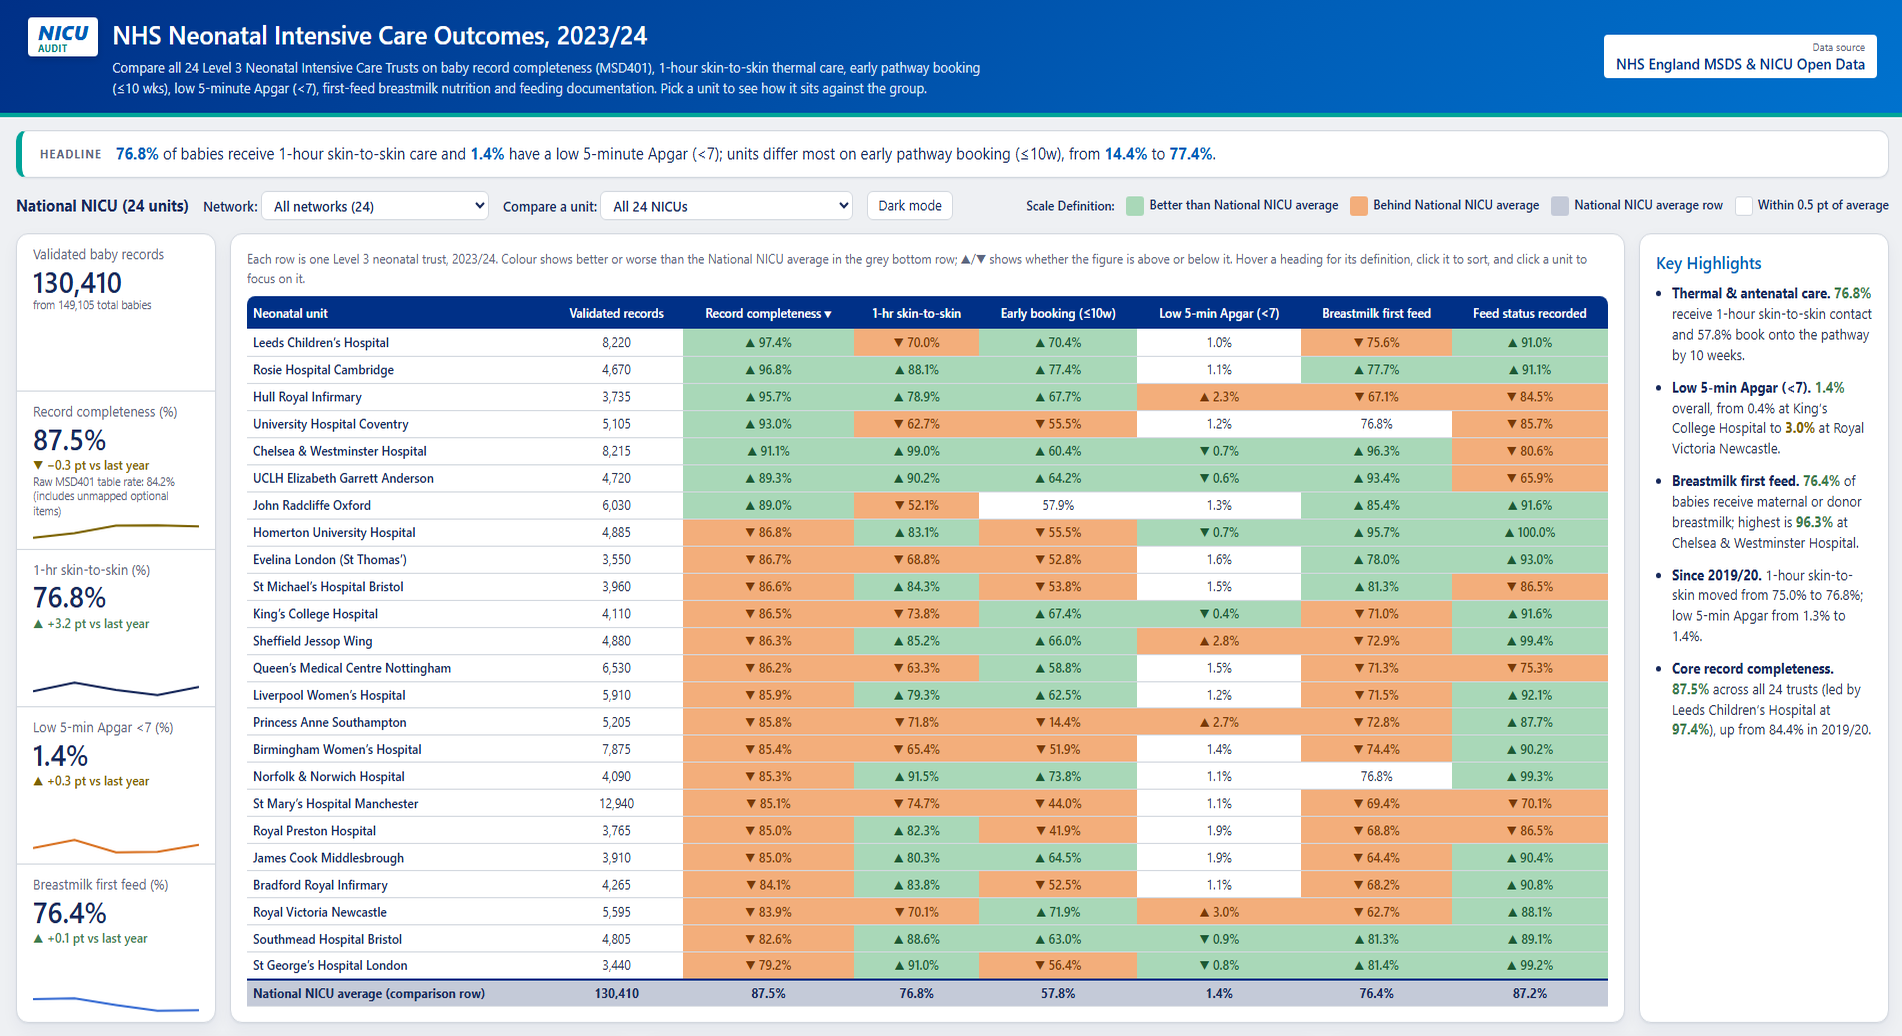
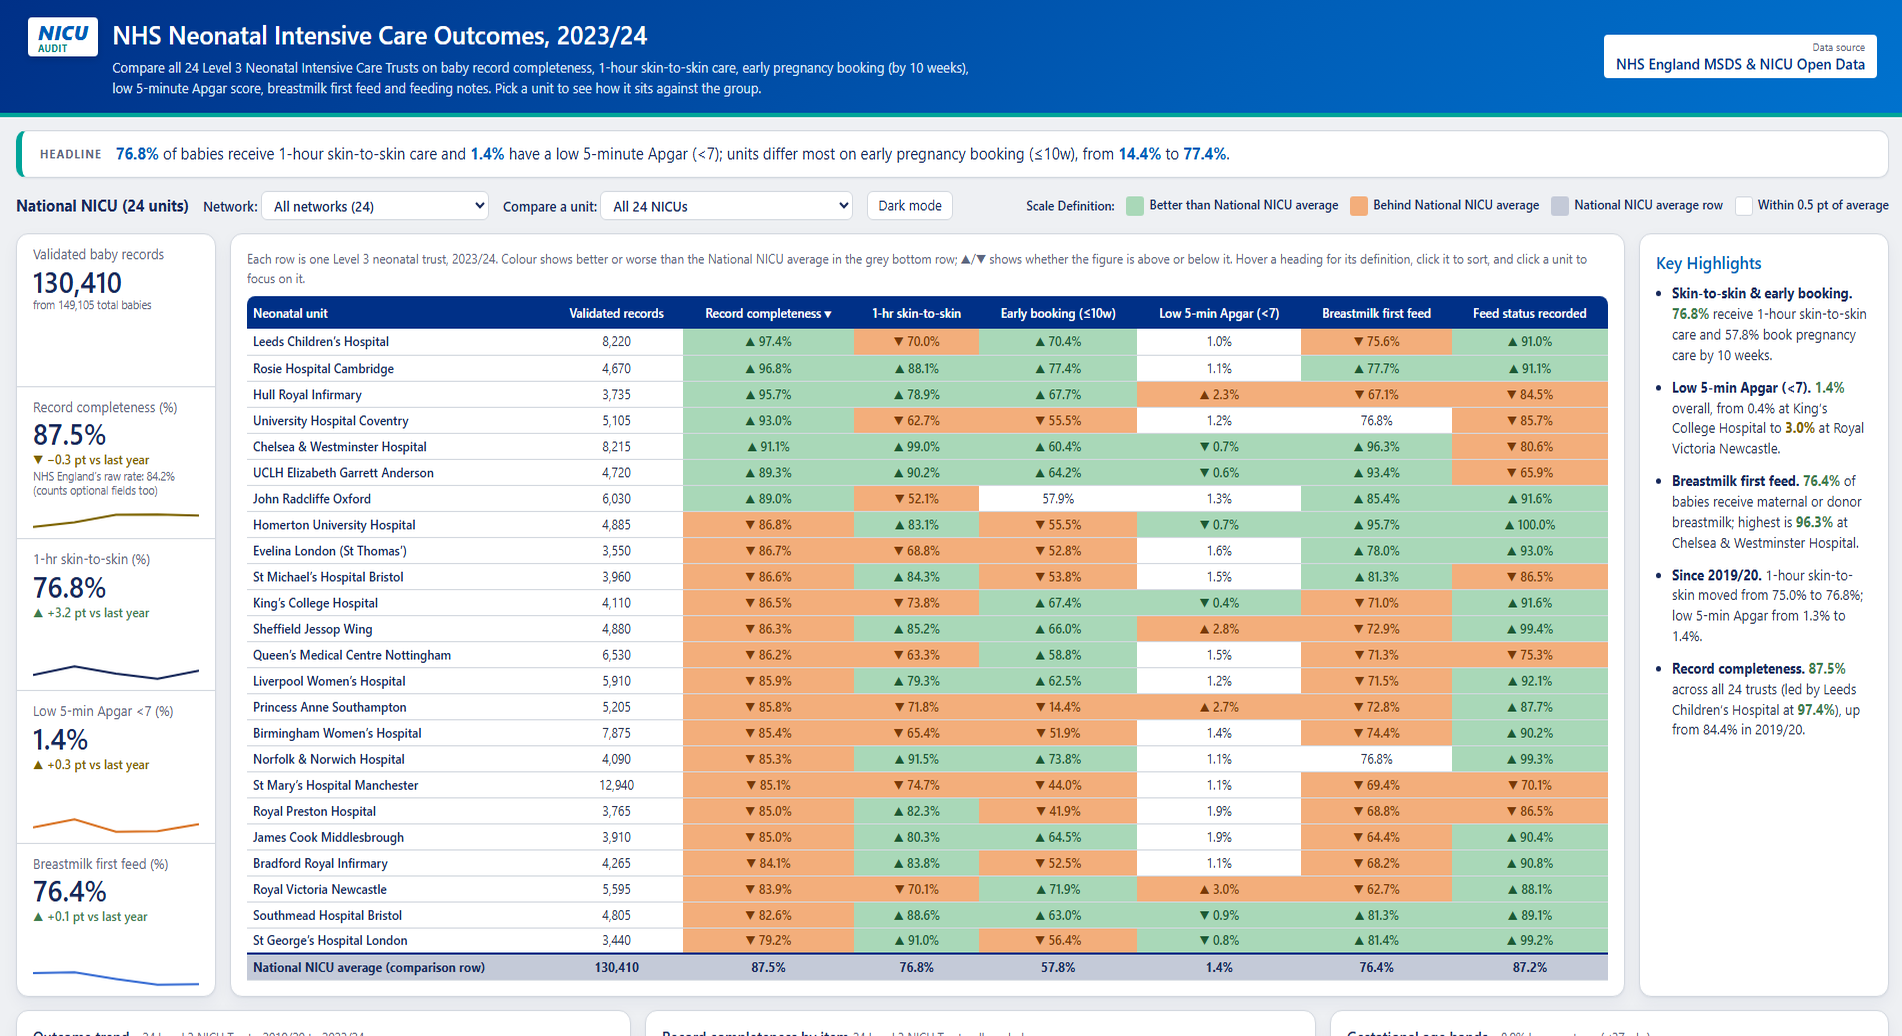
Update NHS cover image with plain-English dashboard wording

diff --git a/script.js b/script.js
@@ -26,7 +26,7 @@
             title: "NHS Neonatal Intensive Care Outcomes 2023/24: Clinical Audit & MSDS Data Quality",
             question: "How do England's 24 Level 3 Neonatal Intensive Care Trusts compare on baby record completeness (MSD401) and perinatal care?",
             embedUrl: "https://subramanian-ms.github.io/nhs-neonatal-outcomes-dashboard/",
-            coverImg: "images/NHS_Neonatal_cover_clean.png?v=20261031h",
+            coverImg: "images/NHS_Neonatal_cover_clean.png?v=20261031i",
             coverAlt: "NHS Neonatal Intensive Care Outcomes 2023/24 Dashboard",
             tags: ["Python (pandas)", "NHS England open data", "NHS disclosure control", "MSDS data quality", "22 automated checks"],
             summary: "An interactive clinical and data-quality dashboard comparing all 24 English Level 3 Neonatal Intensive Care Trusts across Operational Delivery Networks (including Yorkshire & Humber) on core baby record completeness (MSD401), 1-hour skin-to-skin thermal care, early pathway booking (≤10 wks), low 5-minute Apgar (<7), first-feed breastmilk nutrition and feeding documentation.",
@@ -48,7 +48,7 @@
             title: "NHS Neonatal Intensive Care Outcomes 2023/24: Clinical Audit & MSDS Data Quality",
             question: "How do England's 24 Level 3 Neonatal Intensive Care Trusts compare on baby record completeness (MSD401) and perinatal care?",
             embedUrl: "https://subramanian-ms.github.io/nhs-neonatal-outcomes-dashboard/",
-            coverImg: "images/NHS_Neonatal_cover_clean.png?v=20261031h",
+            coverImg: "images/NHS_Neonatal_cover_clean.png?v=20261031i",
             coverAlt: "NHS Neonatal Intensive Care Outcomes 2023/24 Dashboard",
             tags: ["Python (pandas)", "NHS England open data", "NHS disclosure control", "MSDS data quality", "22 automated checks"],
             summary: "An interactive clinical and data-quality dashboard comparing all 24 English Level 3 Neonatal Intensive Care Trusts across Operational Delivery Networks (including Yorkshire & Humber) on core baby record completeness (MSD401), 1-hour skin-to-skin thermal care, early pathway booking (≤10 wks), low 5-minute Apgar (<7), first-feed breastmilk nutrition and feeding documentation.",

diff --git a/index.html b/index.html
@@ -683,7 +683,7 @@
     </aside>
 
     <!-- Scripts -->
-    <script src="script.js?v=20261031h"></script>
+    <script src="script.js?v=20261031i"></script>
 </body>
 
 </html>
